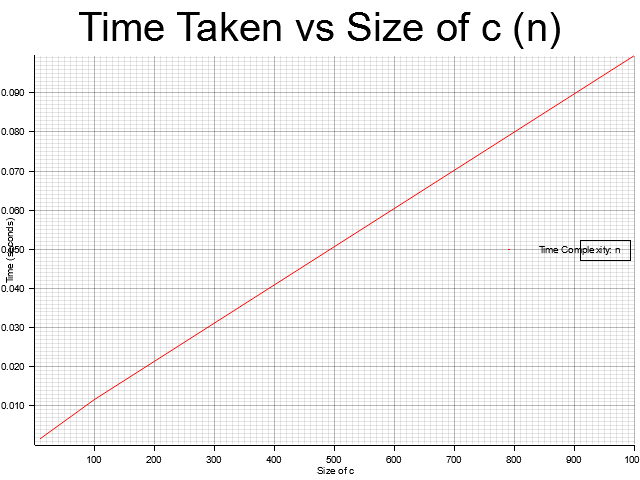
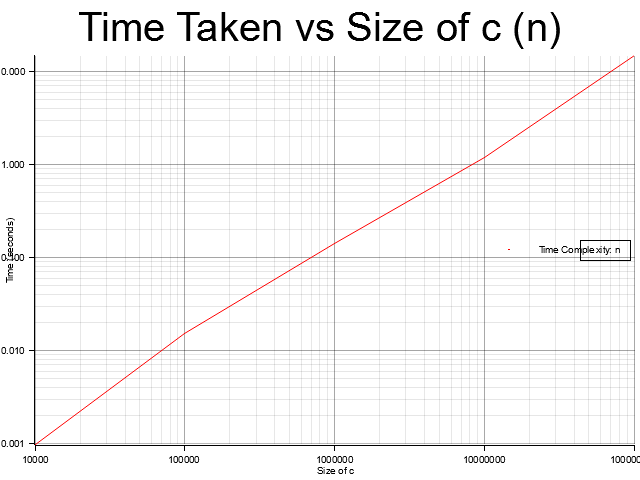
a

Changed region(s): [[0.0, 0.125, 1.0, 0.9688]]

diff --git a/prob_algo copy 2/src/main.rs b/prob_algo copy 2/src/main.rs
@@ -3,9 +3,9 @@ use std::time::Instant;
 use plotters::prelude::*;
 
 fn main() {
-    let sizes = vec![10_u128.pow(4), 10_u128.pow(5), 10_u128.pow(6), 10_u128.pow(7),10_u128.pow(8)];
+    let sizes = vec![10_usize.pow(3),5*10_usize.pow(3), 10_usize.pow(4),5*10_usize.pow(4),10_usize.pow(5)];
 
-    let complexity = "n"; // Change to "n", "logn", or "nlogn"
+    let complexity = "nlogn"; // Change to "n", "logn", or "nlogn"
     let mut times = vec![(0, 0.0); sizes.len()]; 
 
     for (index, &n) in sizes.iter().enumerate() {
@@ -14,7 +14,6 @@ fn main() {
         let (time_taken, _) = hire(&c, complexity); 
         times[index].0 = n; 
         times[index].1 = time_taken.as_secs_f64(); 
-        println!("Current: {} / Total: 5", index+1);
     }
 
     plot_results(&times, complexity); 
@@ -27,7 +26,7 @@ fn hire(c: &[i64], complexity: &str) -> (std::time::Duration, i64) {
 
     let start = Instant::now(); // Start timing
     while i < c.len() {
-        // println!("Current: {} / Total: {}", i as i64 + 1, total_count);
+        println!("Current: {} / Total: {}", i as i64 + 1, total_count);
         if c[i] > hired {
             match complexity {
                 "n" => hiring_on(c),         // O(n) algorithm
@@ -43,10 +42,7 @@ fn hire(c: &[i64], complexity: &str) -> (std::time::Duration, i64) {
 }
 
 fn hiring_on(c: &[i64]) {
-    let mut _sum: i128 = 0;
-    for (index, &n) in c.iter().enumerate() {
-        _sum = c[index] as i128 * 2;  
-    }
+    let _sum: i64 = c.iter().sum(); 
 }
 
 fn hiring_ologn(c: &[i64]) {
@@ -66,12 +62,12 @@ fn hiring_onlogn(c: &[i64]) {
     }
 }
 
-fn generate_random_array(n: u128) -> Vec<i64> {
+fn generate_random_array(n: usize) -> Vec<i64> {
     let mut rng = rand::thread_rng();
     (0..n).map(|_| rng.gen_range(0..10001)).collect()  
 }
 
-fn plot_results(times: &[(u128, f64)], complexity: &str) {
+fn plot_results(times: &[(usize, f64)], complexity: &str) {
     let filename = format!("{}.png", complexity); // Create filename based on complexity
     let root = BitMapBackend::new(&filename, (640, 480)).into_drawing_area();
     root.fill(&WHITE).unwrap();
@@ -114,8 +110,8 @@ fn plot_results(times: &[(u128, f64)], complexity: &str) {
         .unwrap();
 }
 
-fn find_max(times: &[(u128, f64)]) -> (i64, f64) {
-    let mut max_usize: Option<u128> = None;
+fn find_max(times: &[(usize, f64)]) -> (i64, f64) {
+    let mut max_usize: Option<usize> = None;
     let mut max_f64: Option<f64> = None;
 
     for &(us, fl) in times {
@@ -138,8 +134,8 @@ fn find_max(times: &[(u128, f64)]) -> (i64, f64) {
     (max_usize, max_f64)
 }
 
-fn find_min(times: &[(u128, f64)]) -> (i64, f64) {
-    let mut min_usize: Option<u128> = None;
+fn find_min(times: &[(usize, f64)]) -> (i64, f64) {
+    let mut min_usize: Option<usize> = None;
     let mut min_f64: Option<f64> = None;
 
     for &(us, fl) in times {

diff --git a/prob_algo copy/src/main.rs b/prob_algo copy/src/main.rs
@@ -3,9 +3,11 @@ use std::time::Instant;
 use plotters::prelude::*;
 
 fn main() {
-    let sizes = vec![10_u128.pow(4), 10_u128.pow(5), 10_u128.pow(6), 10_u128.pow(7),10_u128.pow(8)];
+    let sizes = vec![10_u128.pow(5), 10_u128.pow(6), 10_u128.pow(7),10_u128.pow(8),10_u128.pow(9)];
+    // let sizes = vec![10_usize.pow(3),10_usize.pow(4), 10_usize.pow(5), 10_usize.pow(6), 10_usize.pow(7)];
+    // let sizes = vec![10_usize.pow(1),10_usize.pow(2),10_usize.pow(3),10_usize.pow(4), 10_usize.pow(5)];
 
-    let complexity = "n"; // Change to "n", "logn", or "nlogn"
+    let complexity = "logn"; // Change to "n", "logn", or "nlogn"
     let mut times = vec![(0, 0.0); sizes.len()]; 
 
     for (index, &n) in sizes.iter().enumerate() {
@@ -43,9 +45,9 @@ fn hire(c: &[i64], complexity: &str) -> (std::time::Duration, i64) {
 }
 
 fn hiring_on(c: &[i64]) {
-    let mut _sum: i128 = 0;
+    let mut _sum: i64 = 0;
     for (index, &n) in c.iter().enumerate() {
-        _sum = c[index] as i128 * 2;  
+        _sum += c[index]; 
     }
 }
 
@@ -58,11 +60,8 @@ fn hiring_ologn(c: &[i64]) {
 
 fn hiring_onlogn(c: &[i64]) {
     let n = c.len() as i64;
-    let mut c: i64= 0;
     for _i in 0..n {
-        for _j in (1..=n).step_by(2) {
-            c += 1;
-        }
+        for _j in (1..=n).step_by(2) {}
     }
 }
 
